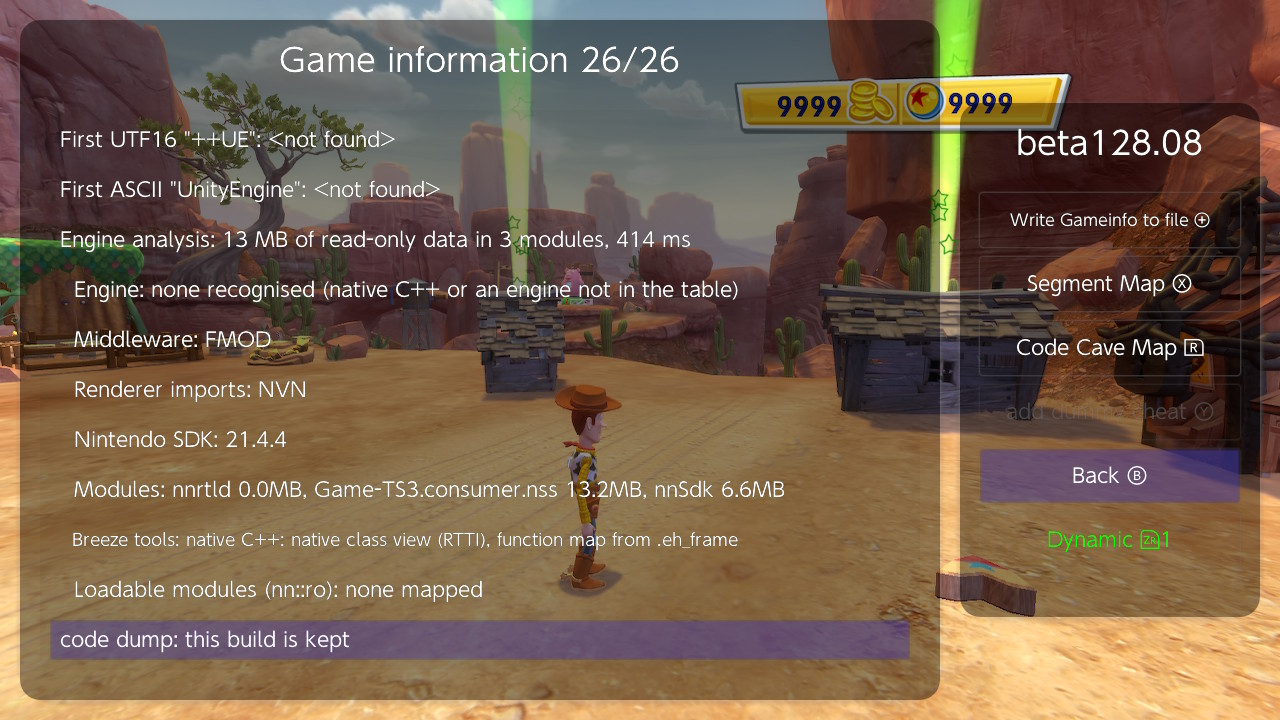
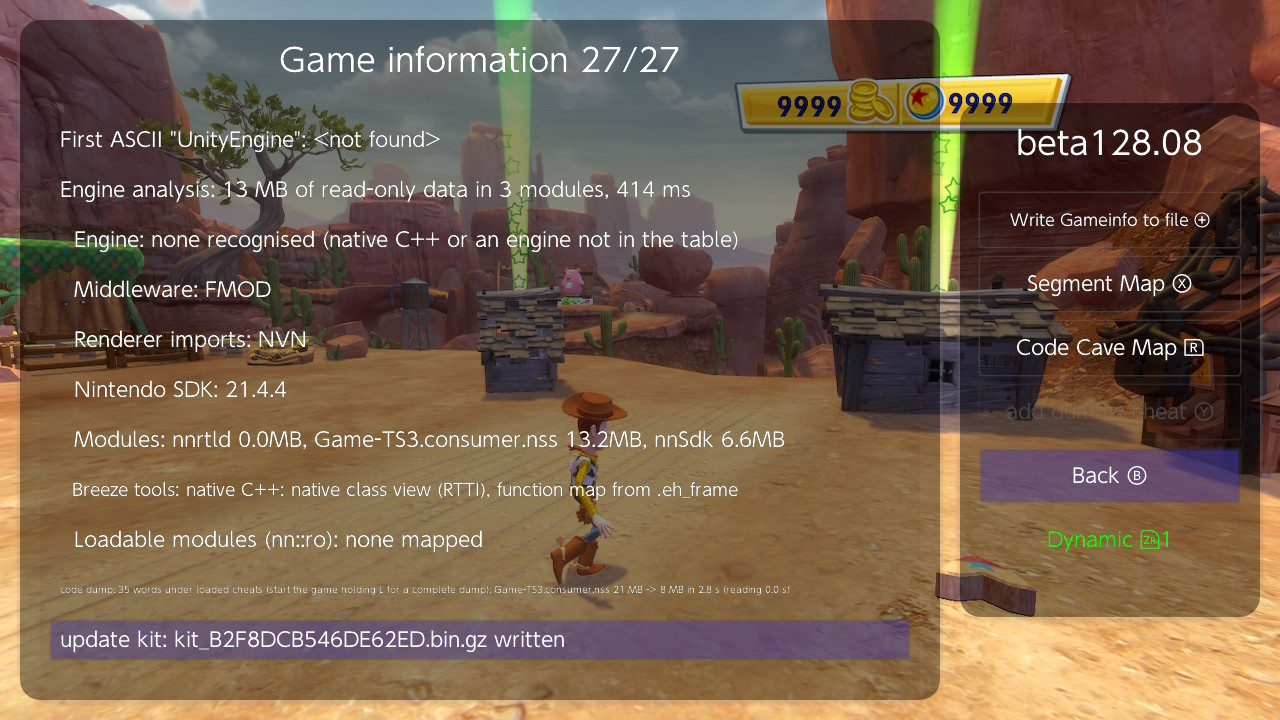
Cheat move guide: Game Information's code dump and update kit lines; changelog

diff --git a/docs/cheat move guide.md b/docs/cheat move guide.md
@@ -20,17 +20,25 @@ Once the update is installed, the old version is gone from the console and Breez
 
 1. **Turn off automatic updates for the game** (or for the console) until this is done. An update installed in the background before Breeze has run the old version leaves nothing to move from.
 2. **Put the cheats in Breeze's game folder.** Breeze saves a build only when it has a cheat file there (`sdmc:/switch/breeze/cheats/<game>/<BID>.txt`, or a cheat source file). Cheats from Get Latest Cheat are saved there already. Cheats that only live in `atmosphere/contents/<TID>/cheats/` are not: open the Cheats screen and press **Write Cheat to file** (Down).
-3. **Start the game with the cheats, and open Breeze.** When Breeze attaches to the game it starts saving a copy of the build's code in the background (`codedump/main_<BID>.bin.gz`). On Toy Story 3 this takes about 3 seconds; on a large game it can take a minute. While it runs, the Cheats screen says *"Saving this build's code for after a game update (...). The cheats load when it is done."*
-4. **Wait until it is done before you close Breeze or the game.** Open **Main > Game Information** (Y) and go to the last line (press Up). While the copy is being made it says `code dump: starting`. When it is done, it gives the size and time of the copy, for example `code dump: Game-TS3.consumer.nss 21 MB -> 8 MB in 2.8 s (reading ...)`. Closing Breeze or the game before that throws the copy away, and it starts again the next time. Then give Breeze a few more seconds: right after the copy it writes the build's update kit, `kit_<BID>.bin.gz`, from it.
+3. **Start the game with the cheats, and open Breeze.** When Breeze attaches to the game it starts saving a copy of the build's code in the background (`codedump/main_<BID>.bin.gz`). On Toy Story 3 this takes about 3 seconds; on a large game it can take a minute. If you load cheats while it runs, the Cheats screen says *"Saving this build's code for after a game update (...). The cheats load when it is done."*
+4. **Wait until both are done before you close Breeze or the game.** Open **Main > Game Information** (Y) and press Up to go to the last two lines. They change as Breeze works:
+
+   | Line | While Breeze works | When it is done |
+   | --- | --- | --- |
+   | code dump | `dumping Game-TS3.consumer.nss 60% (13 of 21 MB)` | `code dump: Game-TS3.consumer.nss 21 MB -> 8 MB in 2.8 s (...)` |
+   | update kit | `update kit: waiting for the code dump`, then `update kit: writing kit_<BID>.bin.gz` | `update kit: kit_<BID>.bin.gz written` |
+
+   On Toy Story 3 the copy took 3 seconds and the kit 5 more. Closing Breeze or the game while the copy is being made throws it away, and it starts again the next time.
+
 5. **On a Unity game, also build the function map once** (**Unity > IL2CPP map**). The move uses the old version's method names to find code the update rewrote, and it can only get them from a map made while the old version was installed. On Unity and Unreal games, open Breeze while you are in play (a save loaded), not on the title screen: when Breeze starts it records the names of the fields your pointer cheats go through, and on the title screen many of those pointers are still empty.
 
-On every later start of the same version, the last line says `code dump: this build is kept`: everything is saved, and you can update.
+![Game Information's last two lines: the code copy is made and the update kit written](./images/cheatmove_00_code_saved.jpg)
 
-![Game Information's last line: code dump: this build is kept](./images/cheatmove_00_code_saved.jpg)
+On a later start of the same version the lines say `code dump: this build is kept` and `update kit: kit_<BID>.bin.gz is up to date`: everything is saved, and you can update.
 
 If the line says `code dump: no cheats for this build`, Breeze did not find a cheat file for this version in its game folder (step 2). Breeze keeps the copies of the last 2 versions of each game.
 
-If you have the old version's cheats loaded when the copy is made, the line adds `N words under loaded cheats`: the copy holds a few of the cheats' own changes, and the move treats those words as unknown. It still works.
+If the old version's cheats are loaded when the copy is made, the code dump line starts with `N words under loaded cheats` (as in the screenshot) and is drawn small: the copy holds a few of the cheats' own changes, and the move treats those words as unknown. It still works. If the kit line says `update kit: not written (...)`, the reason is in the brackets.
 
 Share `kit_<BID>.bin.gz` with the cheat file (for example on MyNXCheats): with it, a player who never had the old version can move the cheats too.
 

diff --git a/CHANGELOG.md b/CHANGELOG.md
@@ -6,6 +6,7 @@
 - **More cheats move on native games:** Toy Story 3 1.0.1 -> 1.0.3 moves all ten cheats (was 8). A value no code reaches by its own address (a slot in an array) moves with the statics around it, marked to check; a cave pointing at a string that moved by an odd amount finds the string by its bytes. Kits carry only the string's length and hash.
 - **A kit even with cheats loaded at start:** a word is taken as patched only when it holds a value a loaded cheat writes there now, so Cult of the Lamb got its kit.
 - **A moved cheat file names your game version** in its first line, not the old one.
+- **Game Information shows the update kit:** a new last line says when the kit is waiting for the code copy, being written, written or up to date, and both lines now update while the screen is open. Wait for both before you update a game; see the [cheat move guide](docs/cheat%20move%20guide.md).
 
 ## [Beta 128.07] - 2026-10-29
 
